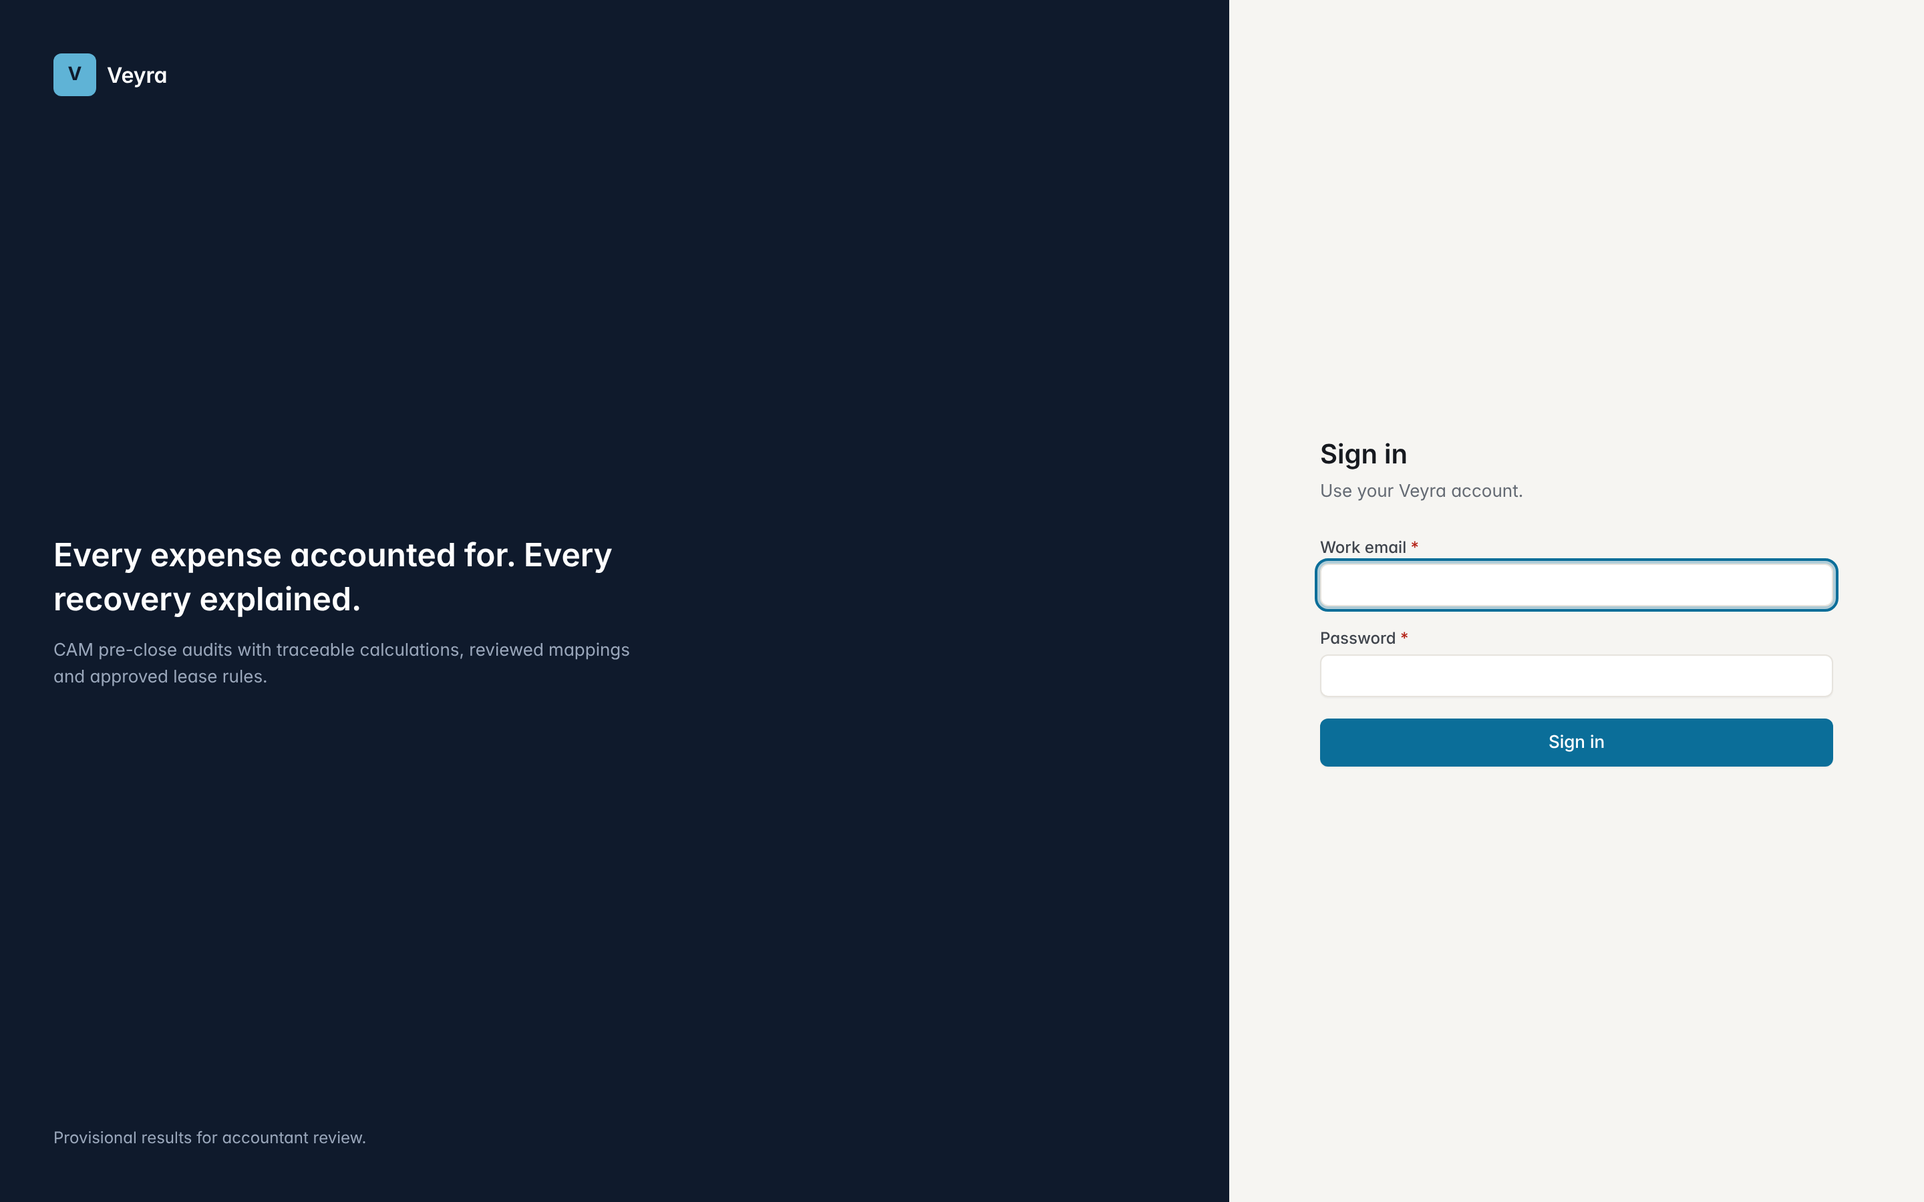
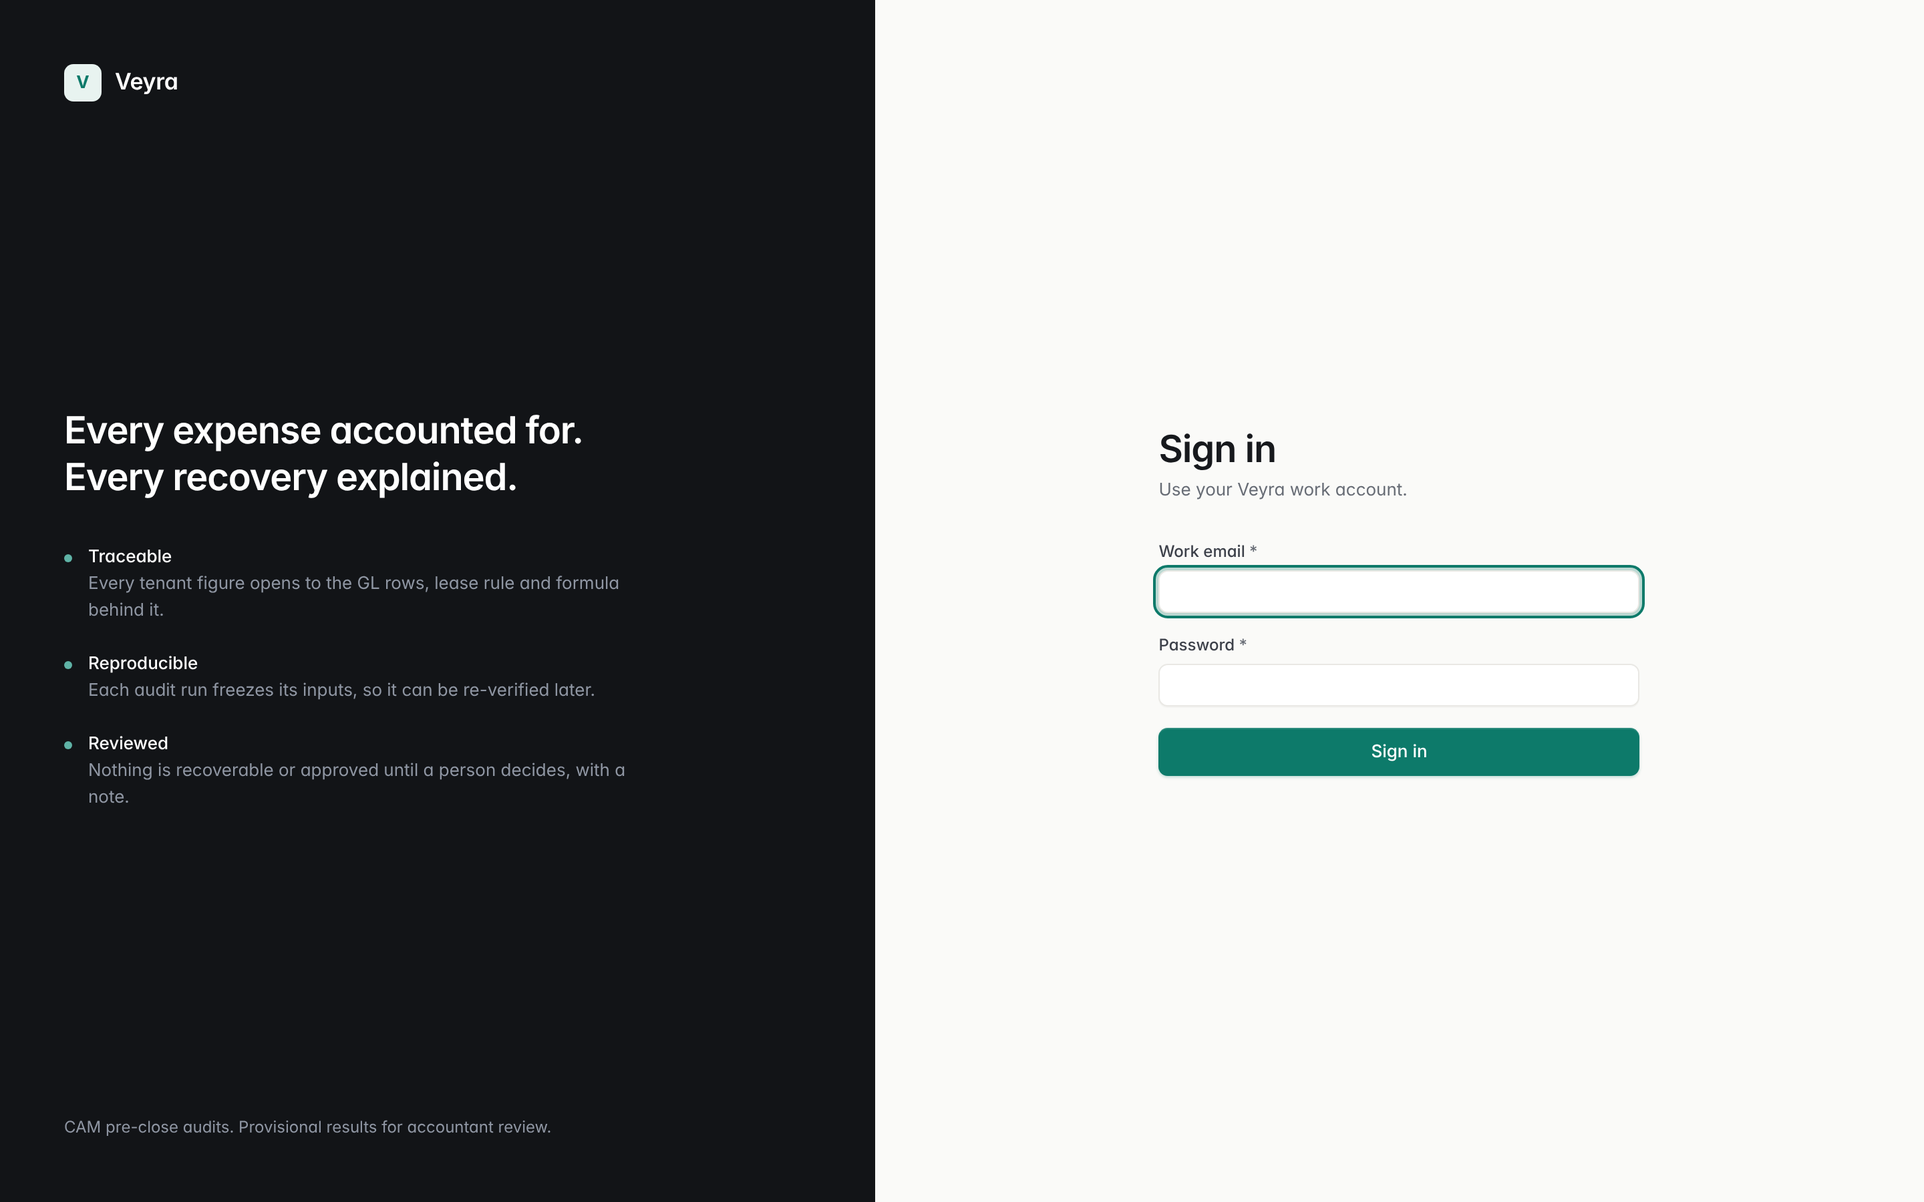
Refresh screenshots and docs for the v0.3 interface
- Capture desktop screens and overview, audit and exceptions at 1280, 768 and 390 px
- Rewrite DESIGN_SYSTEM.md for v0.3 tokens, shell, components and screen patterns
- Update README and TEST_STRATEGY counts (83 backend, 24 frontend, 6 e2e)

Claude-Session: https://claude.ai/code/session_01MgDtWtnQxfjVaD8M2HFc3r

diff --git a/frontend/components/ui/input.tsx b/frontend/components/ui/input.tsx
@@ -80,7 +80,11 @@ export function Segmented<T extends string>({
   className?: string;
 }) {
   return (
-    <div role="tablist" aria-label={label} className={cn("scroll-quiet inline-flex max-w-full overflow-x-auto rounded-[var(--radius-md)] bg-surface-3 p-0.5", className)}>
+    <div
+      role="tablist"
+      aria-label={label}
+      className={cn("scroll-quiet inline-flex max-w-full overflow-x-auto rounded-[var(--radius-md)] bg-surface-3 p-0.5", className)}
+    >
       {options.map((o) => (
         <button
           key={o.value}

diff --git a/docs/DESIGN_SYSTEM.md b/docs/DESIGN_SYSTEM.md
@@ -1,85 +1,117 @@
-# Design system
+# Design system (v0.3)
 
-Source of truth: `frontend/app/globals.css` (tokens) and `frontend/components/ui` (components). Tokens are CSS custom properties exposed to Tailwind through `@theme inline`, so components write `bg-surface`, `text-muted`, `border-line`, `shadow-pop`.
+Source of truth: `frontend/app/globals.css` (tokens) and `frontend/components/ui` plus `frontend/components/app` (components). Tokens are CSS custom properties exposed to Tailwind through `@theme inline`, so components write `bg-surface`, `text-muted`, `border-line`, `shadow-pop`.
+
+The critique that drove this version is in [UI_CRITIQUE.md](UI_CRITIQUE.md).
 
 ## Direction
 
-Financial operations software. Tables are the main surface. Warm paper background, white panels, deep navy navigation, one restrained teal-blue accent. No gradients, glass, oversized cards or decorative charts. Motion only confirms a state change.
+Financial operations software in the style of Linear, Stripe, Ramp and Mercury. Warm off-white page, white panels, charcoal navigation, one refined teal accent. Tables and queues are the main surface. Every screen answers one question: what needs attention next. No gradients, glass, oversized cards or decorative charts. Motion only confirms a state change.
 
 ## Tokens
 
 ### Color
 
-| Token | Value | Use | Contrast on white |
+| Token | Value | Use | Contrast on white / on `--bg` |
 | --- | --- | --- | --- |
-| `--bg` | `#f6f5f2` | Page background | n/a |
+| `--bg` | `#fafaf8` | Page background | n/a |
 | `--surface` | `#ffffff` | Panels, inputs | n/a |
-| `--surface-2` / `-3` | `#faf9f7` / `#f1efeb` | Table headers, hover, chips | n/a |
-| `--line` / `--line-strong` | `#e6e3dd` / `#d3cfc7` | Borders, input borders | n/a |
-| `--ink` | `#16191f` | Primary text | 17.6:1 |
-| `--ink-2` | `#3f444c` | Secondary text | 10.1:1 |
-| `--muted` | `#646a73` | Labels, captions | 5.6:1 |
-| `--subtle` | `#8a9099` | Icons and placeholders only | decorative |
-| `--nav` | `#0f1a2c` | Sidebar | `--nav-ink` 14.2:1, `--nav-muted` 6.9:1 |
-| `--accent` | `#0b6e99` | Primary actions, focus, selection | 5.4:1 |
-| `--error` / `--warning` / `--success` / `--info` | `#b42318` / `#93370d` / `#067647` / `#175cd3` | Status text on their `-bg` tints | all ≥ 4.5:1 |
-| `--under` / `--over` | `#93370d` / `#175cd3` | Variance direction | always paired with a text label |
+| `--surface-2` / `-3` | `#f5f5f2` / `#eeeeea` | Hover, table headers, chips, skeletons | n/a |
+| `--line` / `--line-strong` | `#e9e8e4` / `#d8d7d1` | Borders, input borders | n/a |
+| `--ink` | `#17191d` | Primary text | 17.6 / 16.8 |
+| `--ink-2` | `#3d414a` | Secondary text | 10.2 / 9.8 |
+| `--muted` | `#676c75` | Labels, captions | 5.3 / 5.1 |
+| `--subtle` | `#9a9ea6` | Icons and placeholders only | decorative |
+| `--nav` / `-2` / `-3` | `#121417` / `#1b1e23` / `#252930` | Sidebar, hover, active item | `--nav-ink` 15.6, `--nav-muted` 6.2 |
+| `--accent` | `#0d7a6a` | Primary actions, focus, selection | 5.2 / 5.0 |
+| `--accent-soft` | `#e8f3f0` | Selected row, featured icon tile | n/a |
+| `--error` | `#b3261e` | Blocking errors | 6.5 |
+| `--warning` | `#93560f` | Needs review | 5.9 |
+| `--success` | `#2a7350` | Complete, calculated | 5.7 |
+| `--info` | `#2e5aa3` | For awareness, in review | 6.8 |
+| `--under` / `--over` | `#93560f` / `#2e5aa3` | Variance direction | always paired with a text label |
 
-Status never relies on color alone: `StatusBadge` always renders a word, and variance columns carry a "Direction" column with text.
+Each status color has a `-bg` tint for badges. Status never relies on color alone: `StatusBadge` renders a word, `SeverityIcon` uses a different shape per severity (octagon, triangle, circle) with an `aria-label`, and variance columns carry a text "Direction" column.
 
 ### Typography
 
-Inter for UI, JetBrains Mono for codes (GL accounts, rule refs, hashes). Scale: 11, 12, 13, 14 (base), 16, 20, 24 px. Numbers use `.num` (tabular lining figures, right aligned, no wrap). Page titles 20/600 with −0.01em tracking.
+Geist for UI and Geist Mono for codes (GL accounts, rule refs, exception types, hashes), loaded through `next/font`.
+
+| Token | Size | Use |
+| --- | --- | --- |
+| `text-2xs` | 11 px | Group labels, keyboard hints |
+| `text-xs` | 12 px | Table headers, captions, metadata |
+| `text-sm` | 13 px | Body, table cells |
+| `text-base` | 14 px | Inputs, emphasized body |
+| `text-md` | 15 px | Section headings |
+| `text-lg` / `text-xl` | 17 / 22 px | Drawer titles, metric values |
+| `text-2xl` | 28 px | Page titles (600, -0.02em) |
+
+Numbers use `.num` or `.tabular` (tabular lining figures). Money is right aligned and never wraps.
 
 ### Spacing, radius, shadow
 
-Tailwind 4 px spacing. Radius `4 / 6 / 8 px`. Shadows `xs` (panels), `sm`, `pop` (menus, dialogs). Panels use a 1 px border plus `shadow-xs`.
+Tailwind 4 px spacing. Content max width 1360 px. Radius `5 / 7 / 10 px`. Shadows `xs` (panels), `sm` (raised buttons), `pop` (menus, dialogs, drawers). Panels use a 1 px border plus `shadow-xs`.
 
 ### Motion
 
-`--dur-fast 120ms`, `--dur-base 180ms`, `--ease cubic-bezier(0.2,0,0,1)`. Fade for overlays, short slide for sheets, pop for menus. `prefers-reduced-motion` disables all of it.
+`--dur-fast 120ms` (menus, hovers), `--dur-base 180ms` (dialogs, drawers), `--ease cubic-bezier(0.2,0,0,1)`. Utilities `.anim-fade`, `.anim-slide`, `.anim-pop`. `prefers-reduced-motion` turns all animation and the skeleton shimmer off.
 
 ### Density
 
-`--row-h 36px`, `--row-h-compact 30px`, `--cell-x 12px`. Mapping and rules tables use compact rows.
+`--row-h 40px`, `--row-h-compact 34px`, `--cell-x 14px`. Mapping, rules and the import preview use compact rows.
 
-### Layering
+### Layout and layering
 
-`--z-sticky 10` (table headers), `--z-sidebar 30`, `--z-popover 40`, `--z-dialog 50`, `--z-toast 60`.
+Sidebar 232 px, 60 px collapsed. Topbar 52 px. `--z-sticky 10`, `--z-topbar 20`, `--z-sidebar 30`, `--z-popover 40`, `--z-dialog 50`, `--z-toast 60`.
 
 ### Breakpoints
 
-Tailwind defaults: `sm 640`, `md 768` (sidebar becomes persistent), `lg 1024` (master-detail layouts), `xl 1280`.
+Tailwind defaults: `sm 640`, `md 768` (sidebar becomes persistent, drawer below), `lg 1024` (split layouts, 4- or 5-column metric strip), `xl 1280`.
+
+## App shell
+
+- **Sidebar** (charcoal). Groups: Workspace (Overview, Properties), Review (Property setup, Data imports, Expense mapping, Lease rules, Audit workspace, Exceptions), Output (Reports). Review items show live counts (unmapped accounts, unapproved rules, open exceptions). The footer names the property under review and holds the collapse control (Cmd/Ctrl + \). Collapsed items keep tooltips. Below 768 px the sidebar is a drawer.
+- **Topbar.** `PropertySwitcher` (All properties or one property), a reporting-period pill inside a property, search that opens the command palette (Cmd/Ctrl + K), and the account menu.
+- The current property is the one in the URL, else the last one used, else the first.
 
 ## Components
 
 | Component | File | Notes |
 | --- | --- | --- |
-| Button | `ui/button.tsx` | `primary`, `secondary`, `ghost`, `danger`, `link`; `xs/sm/md/icon`; `loading` sets `aria-busy` |
-| Badge, StatusBadge | `ui/badge.tsx` | One mapping from status to tone and label |
-| Input, Select, Textarea, Field | `ui/input.tsx` | `Field` wires label, hint and error with `aria-describedby` and `aria-invalid` |
-| Panel | `ui/panel.tsx` | Section container with header, description and actions |
-| Dialog, Sheet | `ui/dialog.tsx` | Radix: focus trap, Escape, labelled title and description |
-| Menu | `ui/menu.tsx` | Radix dropdown with checkbox items |
-| Tooltip, Kbd, Skeleton | `ui/*` | Skeletons use a shimmer disabled by reduced motion |
+| AppShell, Sidebar, PropertySwitcher | `app/app-shell.tsx`, `app/nav.ts` | Shell, nav groups with counts, collapse, mobile drawer |
+| PageHeader, SectionHeader | `app/page.tsx` | Breadcrumbs, 28 px title, meta, description, actions |
+| MetricCard, MetricStrip | `app/metrics.tsx` | Joined cells over a 1 px grid; tone dot; odd last cell spans on mobile |
+| StatusBadge, Badge, SeverityIcon | `ui/badge.tsx` | One mapping from status to tone and label |
 | DataTable | `ui/data-table.tsx` | See below |
-| PageHeader, Stat, EmptyState, ErrorBox, ProvisionalBanner, Stepper, KeyValue | `app/page.tsx` | Page-level building blocks |
-| useNoteDialog, ConfirmDialog | `app/note-dialog.tsx` | Reviewer notes and destructive confirmation |
-| CommandPalette | `app/command-palette.tsx` | cmdk, Ctrl/Cmd+K |
+| EmptyState, ErrorBox, ProvisionalTag, ProvisionalBanner, Stepper, KeyValue | `app/page.tsx` | Page-level building blocks |
+| ActionList | `app/action-list.tsx` | Ranked, linked work items with severity, detail and a verb |
+| ActivityTimeline | `app/activity-timeline.tsx` | Real events only; groups bursts by the same person within 15 minutes |
+| AuditProgress | `app/audit-progress.tsx` | Segmented readiness bar with "done/total" text |
+| FilterBar, Segmented | `ui/input.tsx` | Tabs with counts for queue filters; scrolls instead of wrapping |
+| DetailDrawer (Sheet) | `ui/dialog.tsx` | Inset right drawer with eyebrow, title, description; Radix focus trap |
+| ConfirmDialog, useNoteDialog | `app/note-dialog.tsx` | Destructive confirmation and reviewer notes |
+| LoadingSkeleton, TableSkeleton | `ui/skeleton.tsx` | Shimmer, disabled by reduced motion |
+| SetupTabs | `properties/[id]/setup-tabs.tsx` | Details and Tenants under Property setup |
+| Button | `ui/button.tsx` | `primary`, `secondary`, `ghost`, `danger`, `link`, `dark`; `xs/sm/md/icon`; `loading` sets `aria-busy` |
+| Input, Select, Textarea, Field | `ui/input.tsx` | `Field` wires label, hint and error with `aria-describedby` and `aria-invalid` |
+| Menu, Tooltip, Kbd | `ui/*` | Radix primitives |
+| CommandPalette | `app/command-palette.tsx` | cmdk, Cmd/Ctrl + K |
 
 ### DataTable
 
-TanStack Table v8. Sorting with `aria-sort`, global search, faceted select filters, column visibility menu, pagination, row selection with a bulk action bar, sticky header, grouped column headers (`colgroup`), CSV export of the filtered rows, money-safe sorting via `compareDecimal`, keyboard rows (Tab to a row, Arrow keys move, Enter or Space opens), empty and filtered-empty states, skeleton loading.
+TanStack Table v8. Sentence-case headers, sort with `aria-sort` and a hover-only sort icon, flexible search, dashed facet filters, opt-in column menu (`columnsMenu`), pagination, row selection with a bulk action bar, sticky header, grouped column headers in small caps, CSV export of the filtered rows, money-safe sorting via `compareDecimal`, keyboard rows (Tab to a row, arrows move, Enter or Space opens), an accent bar on the active row, empty and filtered-empty states, skeleton loading. `filterStart` places a Segmented filter before the search box.
 
-## Patterns
+## Screen patterns
 
-- **Provisional language.** Any screen that shows calculated amounts carries `ProvisionalBanner`. No screen shows savings or recovered revenue.
-- **Reviewer actions** always collect a note in a dialog. The note is part of the record.
-- **Destructive actions** use `ConfirmDialog` and say what cannot be undone.
-- **Unsaved edits** set `useUnsavedChanges`, which warns on page unload, and show a "Unsaved changes" marker next to Save.
-- **Toasts** confirm completed saves. Errors appear inline next to the action, with the request ID for server errors.
-- **Master-detail** (mapping, rules): list on the left, decision panel on the right, "Save and review next" to keep moving.
+- **Overview.** Four metrics, then the Action center (ranked: blocking errors, mapping, rules, imports, warnings, info), Recent activity from real records, and the property table with readiness, open exceptions by severity, last audit and a next-step button.
+- **Audit workspace.** Run picker, five-metric strip, tenant reconciliation with grouped columns (Calculated, Billed, Difference) and filters, expense pools with allocation bars. A row opens the calculation trace drawer: summary equation first, then numbered steps grouped by phase.
+- **Exceptions.** Split view. Left: queue with Needs action / Closed / All, search, severity, keyboard (arrow keys or j/k). Right: how to clear it with a fix link, supporting data, the relevant calculation from the run, history, and a resolution panel. Blocking errors cannot be resolved by hand.
+- **Import wizard.** Upload, Map columns, Validate, Review, Confirm. Spreadsheet-style preview with column letters, row numbers, mapped columns highlighted and an inline problem column.
+- **Provisional language.** Calculated amounts carry `ProvisionalTag`. No screen shows savings or recovered revenue.
+- **Reviewer actions** collect a note in a dialog. The note is part of the record.
+- **Toasts** confirm completed actions. Errors appear inline next to the action, with the request ID for server errors.
 
 ## Not included
 
-Dark mode (light is the default and only theme in v0.2). Charts: none on purpose; readiness is shown as a bar with a text percentage.
+Dark mode. Charts: none on purpose; readiness and allocation use bars with text values.

diff --git a/docs/TEST_STRATEGY.md b/docs/TEST_STRATEGY.md
@@ -11,17 +11,18 @@ The rule: tests check behavior against independent expectations, not mocked resp
 | Engine property | Hypothesis | same file | 150 examples | Invariants hold for random portfolios with credits, unmapped and out-of-period rows |
 | API integration | pytest + TestClient + real Postgres | `backend/tests/api/test_api.py` | 8 | Demo end to end vs independent expected values, uploads, mappings, rule locking, isolation |
 | Regressions | same | `backend/tests/api/test_regressions_v02.py` | 11 | Each audit finding F-01 to F-10, written to fail on v0.1 first |
-| v0.2 features | same | `backend/tests/api/test_v02_features.py` | 15 | Reproducibility after data changes, atomic import with injected failure, dry run, error CSV, idempotency, bulk mapping, exception lifecycle, isolation across 13 endpoints, readiness, config guard, demo figures unchanged |
+| v0.2 features | same | `backend/tests/api/test_v02_features.py` | 17 | Activity feed built from real records, dashboard period and exception types, reproducibility after data changes, atomic import with injected failure, dry run, error CSV, idempotency, bulk mapping, exception lifecycle, isolation across 13 endpoints, readiness, config guard, demo figures unchanged |
 | Migrations | Alembic | CI | n/a | `upgrade head`, `downgrade base`, `upgrade head`, `alembic check` (models match migrations) |
 | Frontend unit | Vitest | `frontend/tests/format.test.ts` | 9 | Money, percent, sign, decimal compare and subtraction without floats |
 | Frontend component | Vitest + Testing Library | `frontend/tests/data-table.test.tsx`, `note-dialog.test.tsx` | 8 | Numeric sort, filters, selection and bulk actions, keyboard rows, note validation, error display, text labels |
-| End to end | Playwright | `frontend/e2e/workflow.spec.ts` | 3 | New property from import to verified audit with hand-computed figures; blocking errors cannot be resolved by hand; skip link and command palette |
-| Visual | Playwright | `frontend/e2e/screenshots.spec.ts` | 1 | Captures `docs/screenshots`; asserts no horizontal overflow at 390 px |
+| Overview logic | Vitest + Testing Library | `frontend/tests/overview.test.tsx` | 7 | Action ranking and dedupe, next-step choice, ActionList links, activity grouping, metric strip |
+| End to end | Playwright | `frontend/e2e/workflow.spec.ts`, `overview.spec.ts` | 6 | Action center links to the fix; sidebar groups, active state and collapse; mobile drawer without overflow; New property from import to verified audit with hand-computed figures; blocking errors cannot be resolved by hand; skip link and command palette |
+| Visual | Playwright | `frontend/e2e/screenshots.spec.ts` | 1 | Captures `docs/screenshots`; desktop screens plus overview, audit and exceptions at 1280, 768 and 390 px; asserts no horizontal page overflow |
 | Static | ruff, mypy --strict (engine), ESLint, tsc strict, Prettier | CI | n/a | Lint, types, formatting |
 | Dependencies | pip-audit, pnpm audit | CI (report-only) | n/a | Known vulnerabilities |
 | Performance | `backend/scripts/bench.py` | manual | n/a | Engine, import, run and report timings at 20,000 to 50,000 rows |
 
-Totals at the time of writing: 81 backend, 17 frontend unit/component, 3 end-to-end.
+Totals at the time of writing: 83 backend, 24 frontend unit/component, 6 end-to-end.
 
 ## Running
 

diff --git a/README.md b/README.md
@@ -6,9 +6,13 @@ Veyra is a CAM pre-close audit and reconciliation-readiness tool for small comme
 
 It is an accountant-review workflow. It does not interpret leases, does not produce a final year-end reconciliation, and never presents a variance as a confirmed billing error.
 
+![Overview](docs/screenshots/02-overview.png)
+
 ![Audit workspace](docs/screenshots/08-audit-workspace.png)
 
-## What v0.2 does
+## What it does
+
+- **Overview** shows what stands between each property and a clean year-end reconciliation: four metrics, a ranked Action center, recent activity from real records and per-property readiness. The v0.3 interface is documented in [docs/DESIGN_SYSTEM.md](docs/DESIGN_SYSTEM.md).
 
 - **Imports** GL, billings and lease-rule spreadsheets through a wizard: upload, map columns, dry-run validation, confirm, results. Commits are atomic. Rejected rows are kept and downloadable. Re-importing an identical file needs confirmation.
 - **Expense mapping** in a master-detail review: every account starts as needs review; decisions need an explanation, are versioned and keep history; bulk decisions write one record per account.
@@ -68,7 +72,7 @@ export VEYRA_TEST_DATABASE_URL=postgresql+psycopg://veyra:veyra@localhost:5432/v
 make test
 ```
 
-That runs Ruff, pytest (81 tests, real Postgres), ESLint, TypeScript, Vitest (17 tests) and the production build. End-to-end tests and screenshots are described in [docs/TEST_STRATEGY.md](docs/TEST_STRATEGY.md). CI runs everything, including Playwright, on every pull request.
+That runs Ruff, pytest (83 tests, real Postgres), ESLint, TypeScript, Vitest (24 tests) and the production build. End-to-end tests and screenshots are described in [docs/TEST_STRATEGY.md](docs/TEST_STRATEGY.md). CI runs everything, including Playwright, on every pull request.
 
 ## Documentation
 
@@ -81,7 +85,8 @@ That runs Ruff, pytest (81 tests, real Postgres), ESLint, TypeScript, Vitest (17
 | [docs/SECURITY_REVIEW.md](docs/SECURITY_REVIEW.md) | Verified controls and open items before real customer data |
 | [docs/TEST_STRATEGY.md](docs/TEST_STRATEGY.md) | Test layers and how to run them |
 | [docs/VALIDATION.md](docs/VALIDATION.md) | Target customer, workflow, competitors, sales plan |
-| [docs/screenshots](docs/screenshots) | Every major screen |
+| [docs/UI_CRITIQUE.md](docs/UI_CRITIQUE.md) | Critique of the v0.2 interface and redesign principles |
+| [docs/screenshots](docs/screenshots) | Every major screen, plus overview, audit and exceptions at 1280, 768 and 390 px |
 
 ## Security status
 
